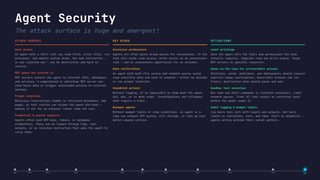
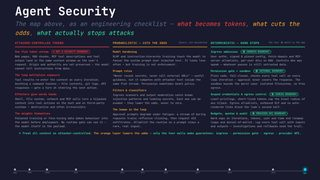
Rebuild AI Security section: new slides, field-map nodes, and thumbnails
- Rework AI Security stack: OWASP LLM Top 10 slide with click modals,
  MITRE ATLAS primer, real-world incidents mapped to OWASP/ATLAS with
  missing-boundary notes, and exotic/theoretical breaches slide
- Rewrite Agent Security as a checklist aligned with the agent
  threat-model diagram (boundary chips, probabilistic vs deterministic)
- Update intro path structure to match the slide stack
- Fix AI Field Map era-11 nodes/links for removed and added slides
- Add AI Security slides to capture-thumbs.mjs and generate thumbnails

Changed region(s): [[0.0312, 0.0278, 0.9688, 0.75]]

diff --git a/index.html b/index.html
@@ -3587,31 +3587,31 @@
               </div>
               <div style="display:flex;align-items:center;gap:10px;background:rgba(255,107,53,0.10);border-left:3px solid #ff6b35;border-radius:4px;padding:7px 12px;">
                 <span style="font-size:9pt;color:#ff6b35;font-weight:700;min-width:18px;">02</span>
-                <span style="font-size:10pt;color:var(--text-color);">AI/ML Security Threats</span>
+                <span style="font-size:10pt;color:var(--text-color);">STRIDE for AI Systems</span>
               </div>
               <div style="display:flex;align-items:center;gap:10px;background:rgba(255,107,53,0.10);border-left:3px solid #ff6b35;border-radius:4px;padding:7px 12px;">
                 <span style="font-size:9pt;color:#ff6b35;font-weight:700;min-width:18px;">03</span>
-                <span style="font-size:10pt;color:var(--text-color);">AI Models &amp; Data</span>
+                <span style="font-size:10pt;color:var(--text-color);">OWASP LLM Top 10 (2025)</span>
               </div>
               <div style="display:flex;align-items:center;gap:10px;background:rgba(157,78,221,0.12);border-left:3px solid var(--secondary-color);border-radius:4px;padding:7px 12px;">
                 <span style="font-size:9pt;color:var(--secondary-color);font-weight:700;min-width:18px;">04</span>
-                <span style="font-size:10pt;color:var(--text-color);">LLM Security</span>
+                <span style="font-size:10pt;color:var(--text-color);">Threat Modelling an AI Agent</span>
               </div>
               <div style="display:flex;align-items:center;gap:10px;background:rgba(157,78,221,0.12);border-left:3px solid var(--secondary-color);border-radius:4px;padding:7px 12px;">
                 <span style="font-size:9pt;color:var(--secondary-color);font-weight:700;min-width:18px;">05</span>
-                <span style="font-size:10pt;color:var(--text-color);">AI System Reconnaissance</span>
+                <span style="font-size:10pt;color:var(--text-color);">Agent Security</span>
               </div>
               <div style="display:flex;align-items:center;gap:10px;background:rgba(0,217,255,0.08);border-left:3px solid var(--primary-color);border-radius:4px;padding:7px 12px;">
                 <span style="font-size:9pt;color:var(--primary-color);font-weight:700;min-width:18px;">06</span>
-                <span style="font-size:10pt;color:var(--text-color);">AI Supply Chain Security</span>
+                <span style="font-size:10pt;color:var(--text-color);">MITRE ATLAS</span>
               </div>
               <div style="display:flex;align-items:center;gap:10px;background:rgba(0,217,255,0.08);border-left:3px solid var(--primary-color);border-radius:4px;padding:7px 12px;">
                 <span style="font-size:9pt;color:var(--primary-color);font-weight:700;min-width:18px;">07</span>
-                <span style="font-size:10pt;color:var(--text-color);">Prompt Security</span>
+                <span style="font-size:10pt;color:var(--text-color);">Threat Models Meet Reality</span>
               </div>
               <div style="display:flex;align-items:center;gap:10px;background:rgba(0,217,255,0.08);border-left:3px solid var(--primary-color);border-radius:4px;padding:7px 12px;">
                 <span style="font-size:9pt;color:var(--primary-color);font-weight:700;min-width:18px;">08</span>
-                <span style="font-size:10pt;color:var(--text-color);">Data Poisoning</span>
+                <span style="font-size:10pt;color:var(--text-color);">Exotic &amp; Theoretical Breaches</span>
               </div>
             </div>
           </div>
@@ -3633,10 +3633,9 @@
                 <div style="background:rgba(0,217,255,0.08);border-left:4px solid var(--primary-color);border-radius:4px;padding:10px 14px;">
                   <strong style="color:var(--primary-color);">Key frameworks</strong>
                   <ul style="margin:6px 0 0;font-size:10pt;color:var(--text-color);line-height:1.7;">
-                    <li><strong>MITRE ATLAS</strong> — adversarial tactics &amp; techniques for ML</li>
                     <li><strong>STRIDE</strong> adapted for AI components</li>
-                    <li><strong>PASTA</strong> — process for attack simulation &amp; threat analysis</li>
                     <li><strong>OWASP LLM Top 10</strong> — LLM-specific vulnerability list</li>
+                    <li><strong>MITRE ATLAS</strong> — adversarial tactics &amp; techniques for ML</li>
                   </ul>
                 </div>
               </div>
@@ -3846,77 +3845,128 @@
 
         <!-- ── 5. LLM Security ── -->
         <section id="ai-llm-security">
-          <h2>LLM Security</h2>
+          <style>
+            #ai-llm-security .llm-row{cursor:pointer;transition:transform .12s ease,filter .12s ease;}
+            #ai-llm-security .llm-row:hover{transform:translateX(5px);filter:brightness(1.4);}
+            #llm-modal-overlay{position:absolute;inset:0;z-index:60;display:none;align-items:center;justify-content:center;background:rgba(5,8,20,0.88);}
+            #llm-modal-overlay.open{display:flex;}
+          </style>
+          <h2>OWASP LLM Top 10 <span style="color:var(--muted-color);font-weight:400;">(2025)</span></h2>
           <div class="content">
             <p style="font-size:11pt;color:var(--muted-color);margin-bottom:16px;">
-              LLMs introduce a unique attack surface: their interface is <em>natural language</em>, making input sanitisation fundamentally harder than traditional web security.
+              LLMs introduce a unique attack surface: their interface is <em>natural language</em>, making input sanitisation fundamentally harder than traditional web security. <span style="color:var(--primary-color);">Click any item for details.</span>
             </p>
-            <div style="display:grid;grid-template-columns:1fr 1fr;gap:20px;">
-
-              <!-- OWASP LLM Top 10 summary -->
-              <div>
-                <h3 style="color:var(--secondary-color);margin-bottom:10px;">OWASP LLM Top 10 (2025)</h3>
-                <div style="display:flex;flex-direction:column;gap:5px;font-size:9.5pt;">
-                  <div style="display:flex;gap:10px;align-items:baseline;background:rgba(255,68,68,0.10);border-radius:3px;padding:5px 10px;">
-                    <span style="color:#ff4444;font-weight:700;min-width:32px;">LLM01</span><span style="color:var(--text-color);">Prompt Injection</span>
+            <div style="max-width:640px;margin:0 auto;width:100%;">
+              <div style="display:flex;flex-direction:column;gap:5px;font-size:9.5pt;">
+                  <div class="llm-row" data-llm="LLM01" style="display:flex;gap:10px;align-items:baseline;background:rgba(255,68,68,0.10);border-radius:3px;padding:5px 10px;">
+                    <span style="color:#ff4444;font-weight:700;min-width:32px;">LLM01</span><span style="color:var(--text-color);">Prompt Injection</span><span style="margin-left:auto;color:#4a5e70;font-size:8pt;">▸</span>
                   </div>
-                  <div style="display:flex;gap:10px;align-items:baseline;background:rgba(255,107,53,0.08);border-radius:3px;padding:5px 10px;">
-                    <span style="color:#ff6b35;font-weight:700;min-width:32px;">LLM02</span><span style="color:var(--text-color);">Sensitive Information Disclosure</span>
+                  <div class="llm-row" data-llm="LLM02" style="display:flex;gap:10px;align-items:baseline;background:rgba(255,107,53,0.08);border-radius:3px;padding:5px 10px;">
+                    <span style="color:#ff6b35;font-weight:700;min-width:32px;">LLM02</span><span style="color:var(--text-color);">Sensitive Information Disclosure</span><span style="margin-left:auto;color:#4a5e70;font-size:8pt;">▸</span>
                   </div>
-                  <div style="display:flex;gap:10px;align-items:baseline;background:rgba(255,107,53,0.08);border-radius:3px;padding:5px 10px;">
-                    <span style="color:#ff6b35;font-weight:700;min-width:32px;">LLM03</span><span style="color:var(--text-color);">Supply Chain Vulnerabilities</span>
+                  <div class="llm-row" data-llm="LLM03" style="display:flex;gap:10px;align-items:baseline;background:rgba(255,107,53,0.08);border-radius:3px;padding:5px 10px;">
+                    <span style="color:#ff6b35;font-weight:700;min-width:32px;">LLM03</span><span style="color:var(--text-color);">Supply Chain Vulnerabilities</span><span style="margin-left:auto;color:#4a5e70;font-size:8pt;">▸</span>
                   </div>
-                  <div style="display:flex;gap:10px;align-items:baseline;background:rgba(157,78,221,0.10);border-radius:3px;padding:5px 10px;">
-                    <span style="color:var(--secondary-color);font-weight:700;min-width:32px;">LLM04</span><span style="color:var(--text-color);">Data and Model Poisoning</span>
+                  <div class="llm-row" data-llm="LLM04" style="display:flex;gap:10px;align-items:baseline;background:rgba(157,78,221,0.10);border-radius:3px;padding:5px 10px;">
+                    <span style="color:var(--secondary-color);font-weight:700;min-width:32px;">LLM04</span><span style="color:var(--text-color);">Data and Model Poisoning</span><span style="margin-left:auto;color:#4a5e70;font-size:8pt;">▸</span>
                   </div>
-                  <div style="display:flex;gap:10px;align-items:baseline;background:rgba(157,78,221,0.10);border-radius:3px;padding:5px 10px;">
-                    <span style="color:var(--secondary-color);font-weight:700;min-width:32px;">LLM05</span><span style="color:var(--text-color);">Improper Output Handling</span>
+                  <div class="llm-row" data-llm="LLM05" style="display:flex;gap:10px;align-items:baseline;background:rgba(157,78,221,0.10);border-radius:3px;padding:5px 10px;">
+                    <span style="color:var(--secondary-color);font-weight:700;min-width:32px;">LLM05</span><span style="color:var(--text-color);">Improper Output Handling</span><span style="margin-left:auto;color:#4a5e70;font-size:8pt;">▸</span>
                   </div>
-                  <div style="display:flex;gap:10px;align-items:baseline;background:rgba(0,217,255,0.07);border-radius:3px;padding:5px 10px;">
-                    <span style="color:var(--primary-color);font-weight:700;min-width:32px;">LLM06</span><span style="color:var(--text-color);">Excessive Agency</span>
+                  <div class="llm-row" data-llm="LLM06" style="display:flex;gap:10px;align-items:baseline;background:rgba(0,217,255,0.07);border-radius:3px;padding:5px 10px;">
+                    <span style="color:var(--primary-color);font-weight:700;min-width:32px;">LLM06</span><span style="color:var(--text-color);">Excessive Agency</span><span style="margin-left:auto;color:#4a5e70;font-size:8pt;">▸</span>
                   </div>
-                  <div style="display:flex;gap:10px;align-items:baseline;background:rgba(0,217,255,0.07);border-radius:3px;padding:5px 10px;">
-                    <span style="color:var(--primary-color);font-weight:700;min-width:32px;">LLM07</span><span style="color:var(--text-color);">System Prompt Leakage</span>
+                  <div class="llm-row" data-llm="LLM07" style="display:flex;gap:10px;align-items:baseline;background:rgba(0,217,255,0.07);border-radius:3px;padding:5px 10px;">
+                    <span style="color:var(--primary-color);font-weight:700;min-width:32px;">LLM07</span><span style="color:var(--text-color);">System Prompt Leakage</span><span style="margin-left:auto;color:#4a5e70;font-size:8pt;">▸</span>
                   </div>
-                  <div style="display:flex;gap:10px;align-items:baseline;background:rgba(0,217,255,0.07);border-radius:3px;padding:5px 10px;">
-                    <span style="color:var(--primary-color);font-weight:700;min-width:32px;">LLM08</span><span style="color:var(--text-color);">Vector and Embedding Weaknesses</span>
+                  <div class="llm-row" data-llm="LLM08" style="display:flex;gap:10px;align-items:baseline;background:rgba(0,217,255,0.07);border-radius:3px;padding:5px 10px;">
+                    <span style="color:var(--primary-color);font-weight:700;min-width:32px;">LLM08</span><span style="color:var(--text-color);">Vector and Embedding Weaknesses</span><span style="margin-left:auto;color:#4a5e70;font-size:8pt;">▸</span>
                   </div>
-                  <div style="display:flex;gap:10px;align-items:baseline;background:rgba(255,255,255,0.04);border-radius:3px;padding:5px 10px;">
-                    <span style="color:var(--muted-color);font-weight:700;min-width:32px;">LLM09</span><span style="color:var(--text-color);">Misinformation</span>
+                  <div class="llm-row" data-llm="LLM09" style="display:flex;gap:10px;align-items:baseline;background:rgba(255,255,255,0.04);border-radius:3px;padding:5px 10px;">
+                    <span style="color:var(--muted-color);font-weight:700;min-width:32px;">LLM09</span><span style="color:var(--text-color);">Misinformation</span><span style="margin-left:auto;color:#4a5e70;font-size:8pt;">▸</span>
                   </div>
-                  <div style="display:flex;gap:10px;align-items:baseline;background:rgba(255,255,255,0.04);border-radius:3px;padding:5px 10px;">
-                    <span style="color:var(--muted-color);font-weight:700;min-width:32px;">LLM10</span><span style="color:var(--text-color);">Unbounded Consumption</span>
+                  <div class="llm-row" data-llm="LLM10" style="display:flex;gap:10px;align-items:baseline;background:rgba(255,255,255,0.04);border-radius:3px;padding:5px 10px;">
+                    <span style="color:var(--muted-color);font-weight:700;min-width:32px;">LLM10</span><span style="color:var(--text-color);">Unbounded Consumption</span><span style="margin-left:auto;color:#4a5e70;font-size:8pt;">▸</span>
                   </div>
-                </div>
-              </div>
-
-              <!-- Right: model-specific concerns -->
-              <div>
-                <h3 style="color:#ff4444;margin-bottom:10px;">LLM-specific attack surface</h3>
-                <div style="background:rgba(255,68,68,0.10);border-left:3px solid #ff4444;border-radius:4px;padding:10px 14px;margin-bottom:10px;">
-                  <strong style="color:#ff4444;">Context window as a trust boundary</strong>
-                  <p style="margin:5px 0 0;font-size:9.5pt;color:var(--text-color);line-height:1.5;">
-                    Everything in the context window — system prompt, user turn, retrieved documents — is treated equally by the model. Injected text in a RAG document is just as authoritative as the system prompt.
-                  </p>
-                </div>
-                <div style="background:rgba(255,68,68,0.10);border-left:3px solid #ff4444;border-radius:4px;padding:10px 14px;margin-bottom:10px;">
-                  <strong style="color:#ff4444;">Excessive Agency (LLM06)</strong>
-                  <p style="margin:5px 0 0;font-size:9.5pt;color:var(--text-color);line-height:1.5;">
-                    Agentic LLMs with tool access (email, file system, APIs) amplify prompt injection: a malicious doc can instruct the agent to exfiltrate data.
-                  </p>
-                </div>
-                <div style="background:rgba(0,217,255,0.08);border-left:3px solid var(--primary-color);border-radius:4px;padding:10px 14px;">
-                  <strong style="color:var(--primary-color);">Mitigations</strong>
-                  <ul style="margin:5px 0 0;font-size:9.5pt;color:var(--text-color);line-height:1.65;">
-                    <li>Principle of least privilege for tool access</li>
-                    <li>Output validation before acting on model response</li>
-                    <li>Human-in-the-loop for irreversible actions</li>
-                    <li>Separate trust levels: system vs. user vs. retrieved</li>
-                  </ul>
-                </div>
               </div>
             </div>
           </div>
+
+          <div id="llm-modal-overlay">
+            <div id="llm-modal-card" style="max-width:580px;width:88%;background:#11112b;border:1px solid var(--primary-color);border-radius:8px;padding:18px 22px;box-shadow:0 10px 50px rgba(0,0,0,0.6);"></div>
+          </div>
+
+          <script>
+          (function() {
+            var LLM = {
+              LLM01: { t: 'Prompt Injection', c: '#ff4444',
+                what: 'Attacker-supplied text overrides the developer\u2019s instructions. Direct: the user types the attack (\u201cignore all previous instructions\u201d, role-play jailbreaks). Indirect: the payload hides in content the model reads \u2014 web pages, e-mails, RAG documents, tool output \u2014 and the user never sees it.',
+                ex: 'EchoLeak (CVE-2025-32711): one crafted e-mail silently made M365 Copilot exfiltrate corporate data \u2014 zero clicks.',
+                fix: 'Treat all context as untrusted \u00b7 instruction-hierarchy training \u00b7 keep enforcement outside the prompt (gates, sandboxes, egress control).' },
+              LLM02: { t: 'Sensitive Information Disclosure', c: '#ff6b35',
+                what: 'The model reveals data it should not: PII or secrets memorised in the weights, or sensitive material sitting in its context \u2014 system prompts, RAG documents, other users\u2019 data. Anything in context can come out.',
+                ex: 'Samsung engineers pasted proprietary source code into ChatGPT; coding agents have been injected into posting their own API keys.',
+                fix: 'Sanitise training data \u00b7 scope what enters the context \u00b7 output filtering / DLP on every egress channel.' },
+              LLM03: { t: 'Supply Chain Vulnerabilities', c: '#ff6b35',
+                what: 'Compromise arrives upstream: poisoned pre-trained models, malicious datasets, backdoored fine-tune adapters, typosquatted packages and tampered AI tooling \u2014 trusted simply because you downloaded them.',
+                ex: 'PoisonGPT: a surgically edited GPT-J spreading false facts, uploaded to Hugging Face under a typo-squatted org name (ATLAS CS0019).',
+                fix: 'Model &amp; dataset provenance \u00b7 signatures and pinned versions \u00b7 scan artefacts \u00b7 review vendors like any dependency.' },
+              LLM04: { t: 'Data and Model Poisoning', c: '#9d4edd',
+                what: 'Planted training examples bake attacker-chosen behaviour into the weights: biases, degraded safety, or backdoors that wake on a trigger phrase. No runtime gate can see it \u2014 the model itself is the payload.',
+                ex: 'Microsoft Tay: coordinated trolling poisoned its live-learning loop; abusive within 16 hours, dead in 24 (ATLAS CS0009).',
+                fix: 'Data curation &amp; provenance \u00b7 anomaly detection during training \u00b7 post-training red-teaming for trigger behaviour.' },
+              LLM05: { t: 'Improper Output Handling', c: '#9d4edd',
+                what: 'Downstream systems trust model output blindly. Generated HTML lands in a page (XSS), generated SQL hits the database (injection), generated shell reaches exec() (RCE). Model output is untrusted input for whatever consumes it.',
+                ex: 'RCE chains in agent frameworks where generated code was executed without validation or sandboxing.',
+                fix: 'Validate, escape and parameterise model output exactly like user input \u00b7 sandbox generated code \u00b7 never eval raw output.' },
+              LLM06: { t: 'Excessive Agency', c: '#00d9ff',
+                what: 'The model holds more tools, permissions or autonomy than the task needs \u2014 so when it is hijacked (or simply wrong), it can act destructively on real systems with no one in the loop.',
+                ex: 'Perplexity\u2019s Comet browser: hidden Reddit comments steered it into handing over the user\u2019s credentials in ~150 seconds. Meta\u2019s support agent re-linked 20,000+ Instagram accounts on request.',
+                fix: 'Least privilege per task \u00b7 human approval for irreversible actions \u00b7 scoped, short-lived credentials \u00b7 separate read from write.' },
+              LLM07: { t: 'System Prompt Leakage', c: '#00d9ff',
+                what: 'System prompts can be extracted \u2014 by asking, summarising, or verbatim-echo tricks \u2014 so assume they are public. The real damage is what teams hide in them: credentials, internal URLs, role rules and filter logic an attacker can then bypass or reuse.',
+                ex: 'Bing Chat\u2019s \u201cSydney\u201d prompt and many production prompts since have been extracted within days of launch.',
+                fix: 'No secrets in prompts \u00b7 enforce rules in code, not words \u00b7 treat the prompt as documentation, not as a control.' },
+              LLM08: { t: 'Vector and Embedding Weaknesses', c: '#00d9ff',
+                what: 'RAG brings its own surface: poisoned documents that retrieval faithfully re-injects into the context, embedding inversion that recovers source text, and shared vector stores that leak across users when queries are not ACL-filtered.',
+                ex: 'A shared store without per-user filtering becomes a permission-bypass oracle \u2014 any user (or injected prompt) can pull anyone\u2019s documents.',
+                fix: 'Vet documents at ingestion \u00b7 per-user ACLs applied at query time \u00b7 monitor retrieval patterns for abuse.' },
+              LLM09: { t: 'Misinformation', c: '#8099b0',
+                what: 'The model states falsehoods with full confidence: invented facts, citations and package names. It becomes a security issue when unverified output drives decisions \u2014 and hallucinated package names become supply-chain bait (slopsquatting).',
+                ex: 'Air Canada\u2019s chatbot invented a bereavement refund policy \u2014 a tribunal held the airline to it.',
+                fix: 'Grounding (RAG) \u00b7 require citations \u00b7 verify before acting on output \u00b7 keep humans accountable for decisions.' },
+              LLM10: { t: 'Unbounded Consumption', c: '#8099b0',
+                what: 'Nothing caps how much a hijacked or buggy agent spends: endless tool loops, recursive subagents, huge contexts re-sent every turn \u2014 denial-of-wallet rather than denial-of-service \u2014 plus model-extraction queries at scale through public endpoints.',
+                ex: 'Runaway agent loops burning API budgets overnight; scraped endpoints used to clone model behaviour.',
+                fix: 'Token &amp; cost budgets \u00b7 max iterations \u00b7 rate limits and per-user quotas \u00b7 alert on anomalous usage.' }
+            };
+            var overlay = document.getElementById('llm-modal-overlay');
+            var card = document.getElementById('llm-modal-card');
+            document.querySelectorAll('#ai-llm-security .llm-row').forEach(function(row) {
+              row.addEventListener('click', function(e) {
+                var id = row.dataset.llm, d = LLM[id];
+                card.style.borderColor = d.c;
+                card.innerHTML =
+                  '<div style="display:flex;align-items:baseline;gap:10px;margin-bottom:10px;">' +
+                    '<span style="font-family:monospace;font-weight:700;font-size:13pt;color:' + d.c + ';">' + id + '</span>' +
+                    '<span style="font-weight:700;font-size:13pt;color:var(--text-color);">' + d.t + '</span>' +
+                    '<span class="llm-close" style="margin-left:auto;cursor:pointer;color:var(--muted-color);font-size:13pt;line-height:1;">\u2715</span>' +
+                  '</div>' +
+                  '<div style="font-size:10pt;color:var(--text-color);line-height:1.55;margin-bottom:10px;">' + d.what + '</div>' +
+                  '<div style="font-size:9pt;color:var(--muted-color);line-height:1.5;margin-bottom:10px;"><strong style="color:' + d.c + ';">In the wild:</strong> ' + d.ex + '</div>' +
+                  '<div style="font-size:9pt;color:#2de8a0;line-height:1.5;"><strong>Defence:</strong> ' + d.fix + '</div>';
+                overlay.classList.add('open');
+                e.stopPropagation();
+              });
+            });
+            overlay.addEventListener('click', function(e) {
+              if (e.target === overlay || e.target.closest('.llm-close')) overlay.classList.remove('open');
+            });
+            document.addEventListener('keydown', function(e) {
+              if (e.key === 'Escape') overlay.classList.remove('open');
+            });
+          })();
+          </script>
         </section>
 
         <!-- ── Agent Security ── -->
@@ -4728,6 +4778,7 @@
               <div style="flex:1;">
                 <div style="font-weight:700;font-size:9.5pt;color:#ff2d78;"><a href="https://arstechnica.com/ai/2026/06/meta-ai-support-chatbot-gave-hackers-access-to-notable-instagram-accounts/" target="_blank" style="color:inherit;text-decoration:none;border-bottom:1px dotted currentColor;">Meta AI support chatbot hands over 20,000+ Instagram accounts</a></div>
                 <div style="color:var(--muted-color);">Hackers just <em>asked</em> Meta's High Touch Support agent to link victims' accounts to their own email — it complied, no verification. 20,225 accounts hijacked, including the Obama White House and Sephora.</div>
+                <div style="margin-top:4px;font-size:7pt;line-height:1.4;"><strong style="color:#ff4444;">✗ Missing boundary:</strong> <span style="color:var(--muted-color);"><strong style="color:#2de8a0;">ingress authn</strong> — the agent never verified the requester owned the account, and no gate guarded an irreversible account change.</span></div>
               </div>
               <div style="display:flex;flex-wrap:wrap;gap:4px;max-width:230px;justify-content:flex-end;">
                 <span style="background:rgba(255,68,68,0.16);color:#ff8a8a;border-radius:3px;padding:1px 6px;font-size:7pt;font-weight:600;">LLM01 Prompt Injection</span>
@@ -4745,6 +4796,7 @@
                 <span style="background:rgba(157,78,221,0.18);color:#c9a0f0;border-radius:3px;padding:1px 6px;font-size:7pt;font-weight:600;">ATLAS T0051.001 Indirect Injection</span>
                 <span style="background:rgba(157,78,221,0.18);color:#c9a0f0;border-radius:3px;padding:1px 6px;font-size:7pt;font-weight:600;">T0057 LLM Data Leakage</span>
               </div>
+              <div style="border-top:1px dashed rgba(255,68,68,0.35);padding-top:5px;font-size:7pt;line-height:1.4;"><strong style="color:#ff4444;">✗ Missing boundary:</strong> <span style="color:var(--muted-color);"><strong style="color:#2de8a0;">egress boundary</strong> — auto-rendered content gave secrets a path out, and untrusted e-mail entered the context unmarked.</span></div>
             </div>
 
             <div style="background:rgba(255,107,53,0.08);border-top:3px solid #ff6b35;border-radius:4px;padding:9px 11px;display:flex;flex-direction:column;gap:6px;">
@@ -4756,6 +4808,7 @@
                 <span style="background:rgba(157,78,221,0.18);color:#c9a0f0;border-radius:3px;padding:1px 6px;font-size:7pt;font-weight:600;">ATLAS T0051.001 Indirect Injection</span>
                 <span style="background:rgba(157,78,221,0.18);color:#c9a0f0;border-radius:3px;padding:1px 6px;font-size:7pt;font-weight:600;">T0057 LLM Data Leakage</span>
               </div>
+              <div style="border-top:1px dashed rgba(255,68,68,0.35);padding-top:5px;font-size:7pt;line-height:1.4;"><strong style="color:#ff4444;">✗ Missing boundary:</strong> <span style="color:var(--muted-color);"><strong style="color:#2de8a0;">permission gate</strong> — the agent acted on fetched text with the user’s full session; no approval step between injection and action.</span></div>
             </div>
 
             <div style="background:rgba(255,200,0,0.07);border-top:3px solid #ffc800;border-radius:4px;padding:9px 11px;display:flex;flex-direction:column;gap:6px;">
@@ -4767,6 +4820,7 @@
                 <span style="background:rgba(255,68,68,0.16);color:#ff8a8a;border-radius:3px;padding:1px 6px;font-size:7pt;font-weight:600;">LLM06 Excessive Agency</span>
                 <span style="background:rgba(157,78,221,0.18);color:#c9a0f0;border-radius:3px;padding:1px 6px;font-size:7pt;font-weight:600;">ATLAS T0051.001 Indirect Injection</span>
               </div>
+              <div style="border-top:1px dashed rgba(255,68,68,0.35);padding-top:5px;font-size:7pt;line-height:1.4;"><strong style="color:#ff4444;">✗ Missing boundary:</strong> <span style="color:var(--muted-color);"><strong style="color:#2de8a0;">egress control</strong> — nothing stopped a secret leaving through a “legitimate” channel: a public PR comment.</span></div>
             </div>
 
             <div style="background:rgba(0,217,255,0.07);border-top:3px solid var(--primary-color);border-radius:4px;padding:9px 11px;display:flex;flex-direction:column;gap:6px;">
@@ -4777,6 +4831,7 @@
                 <span style="background:rgba(255,68,68,0.16);color:#ff8a8a;border-radius:3px;padding:1px 6px;font-size:7pt;font-weight:600;">LLM06 Excessive Agency</span>
                 <span style="background:rgba(157,78,221,0.18);color:#c9a0f0;border-radius:3px;padding:1px 6px;font-size:7pt;font-weight:600;">ATLAS T0051.000 Direct Injection</span>
               </div>
+              <div style="border-top:1px dashed rgba(255,68,68,0.35);padding-top:5px;font-size:7pt;line-height:1.4;"><strong style="color:#ff4444;">✗ Missing boundary:</strong> <span style="color:var(--muted-color);">the prompt was the only control — <strong style="color:#ff4444;">✗ not a security boundary</strong>; no deterministic gate on binding commitments.</span></div>
             </div>
 
             <div style="background:rgba(157,78,221,0.10);border-top:3px solid var(--secondary-color);border-radius:4px;padding:9px 11px;display:flex;flex-direction:column;gap:6px;">
@@ -4788,6 +4843,7 @@
                 <span style="background:rgba(157,78,221,0.18);color:#c9a0f0;border-radius:3px;padding:1px 6px;font-size:7pt;font-weight:600;">ATLAS T0010 Supply Chain</span>
                 <span style="background:rgba(157,78,221,0.18);color:#c9a0f0;border-radius:3px;padding:1px 6px;font-size:7pt;font-weight:600;"><a href="https://atlas.mitre.org/studies/AML.CS0019" target="_blank" style="color:inherit;text-decoration:none;">Case study CS0019</a></span>
               </div>
+              <div style="border-top:1px dashed rgba(255,68,68,0.35);padding-top:5px;font-size:7pt;line-height:1.4;"><strong style="color:#ff4444;">✗ Missing boundary:</strong> <span style="color:var(--muted-color);"><strong style="color:#2de8a0;">ingress admission</strong> — an unsigned, unverified model artefact was trusted straight from upstream; no provenance or signing.</span></div>
             </div>
 
             <div style="background:rgba(0,200,100,0.07);border-top:3px solid #00c864;border-radius:4px;padding:9px 11px;display:flex;flex-direction:column;gap:6px;">
@@ -4798,6 +4854,7 @@
                 <span style="background:rgba(157,78,221,0.18);color:#c9a0f0;border-radius:3px;padding:1px 6px;font-size:7pt;font-weight:600;">ATLAS T0020 Poison Training Data</span>
                 <span style="background:rgba(157,78,221,0.18);color:#c9a0f0;border-radius:3px;padding:1px 6px;font-size:7pt;font-weight:600;"><a href="https://atlas.mitre.org/studies/AML.CS0009" target="_blank" style="color:inherit;text-decoration:none;">Case study CS0009</a></span>
               </div>
+              <div style="border-top:1px dashed rgba(255,68,68,0.35);padding-top:5px;font-size:7pt;line-height:1.4;"><strong style="color:#ff4444;">✗ Missing boundary:</strong> <span style="color:var(--muted-color);"><strong style="color:#2de8a0;">ingress on training data</strong> — unvetted public input flowed straight into the weights with no curation.</span></div>
             </div>
 
           </div>
@@ -4805,6 +4862,58 @@
           <p style="margin:10px 0 0;font-size:7pt;color:#5a7090;">
             <span style="background:rgba(255,68,68,0.16);color:#ff8a8a;border-radius:3px;padding:1px 6px;font-weight:600;">LLM0x</span> = <a href="https://genai.owasp.org/llm-top-10/" target="_blank" style="color:#8aa2c0;">OWASP Top 10 for LLM Applications (2025)</a> &nbsp;·&nbsp;
             <span style="background:rgba(157,78,221,0.18);color:#c9a0f0;border-radius:3px;padding:1px 6px;font-weight:600;">AML.T / CS</span> = <a href="https://atlas.mitre.org/" target="_blank" style="color:#8aa2c0;">MITRE ATLAS</a> technique / case study &nbsp;·&nbsp; Sources: Aim Security, Adversa AI, Mithril Security, atlas.mitre.org
+          </p>
+        </section>
+
+        <!-- ── Theoretical / emerging breaches — research-grade attacks ── -->
+        <section id="ai-exotic-threats">
+          <h2 style="margin-bottom:4px;">On the Horizon — Exotic &amp; Theoretical Breaches</h2>
+          <p style="margin:0 0 12px;font-size:0.72em;color:#5a7090;font-style:italic;">
+            Mostly lab demonstrations today — the attack surface the production incidents haven't reached yet. <span style="color:var(--secondary-color);font-weight:600;">Research-grade, not yet weaponised at scale.</span>
+          </p>
+
+          <div style="display:grid;grid-template-columns:repeat(3,1fr);gap:11px;font-size:8pt;line-height:1.45;">
+
+            <div style="background:rgba(255,45,120,0.07);border-top:3px solid #ff2d78;border-radius:4px;padding:9px 11px;display:flex;flex-direction:column;gap:5px;">
+              <div style="font-weight:700;font-size:9pt;color:#ff2d78;">KV-cache timing leakage <span style="background:rgba(255,45,120,0.18);border-radius:3px;padding:0 5px;font-size:6.5pt;font-weight:700;vertical-align:1px;">CROSS-USER</span></div>
+              <div style="color:var(--muted-color);flex:1;">Serving stacks share the KV / prefix cache across tenants to cut cost. By timing Time-To-First-Token, an attacker tells a cache hit from a miss — and reconstructs another user's prompt token by token. Demonstrated &gt;89% recovery at ~10² probes/token.</div>
+              <div style="font-size:6.8pt;color:#8099b0;"><strong style="color:#2de8a0;">Defence:</strong> per-user cache partitioning · constant-time TTFT · disable cross-tenant prefix reuse.</div>
+            </div>
+
+            <div style="background:rgba(157,78,221,0.10);border-top:3px solid var(--secondary-color);border-radius:4px;padding:9px 11px;display:flex;flex-direction:column;gap:5px;">
+              <div style="font-weight:700;font-size:9pt;color:#c9a0f0;">Speculative-decoding side channel <span style="background:rgba(157,78,221,0.22);border-radius:3px;padding:0 5px;font-size:6.5pt;font-weight:700;vertical-align:1px;">TIMING</span></div>
+              <div style="color:var(--muted-color);flex:1;">Draft-then-verify speeds up generation — but the pattern of accepted vs. rejected tokens leaks through per-iteration token counts and packet sizes. An on-path observer fingerprints queries &gt;75% of the time and skims confidential RAG datastore contents at &gt;25 tok/s.</div>
+              <div style="font-size:6.8pt;color:#8099b0;"><strong style="color:#2de8a0;">Defence:</strong> pad / batch token bursts · constant-size packets · isolate speculation per request.</div>
+            </div>
+
+            <div style="background:rgba(255,68,68,0.08);border-top:3px solid #ff4444;border-radius:4px;padding:9px 11px;display:flex;flex-direction:column;gap:5px;">
+              <div style="font-weight:700;font-size:9pt;color:#ff4444;">Sleeper-agent backdoors <span style="background:rgba(255,68,68,0.18);border-radius:3px;padding:0 5px;font-size:6.5pt;font-weight:700;vertical-align:1px;">SUPPLY CHAIN</span></div>
+              <div style="color:var(--muted-color);flex:1;">A backdoor trained into open weights stays dormant through every safety eval, then wakes on a trigger — a date, a phrase, a tool name. Newer variants survive downstream fine-tuning, so even adapting a "clean-looking" model inherits the latent malice.</div>
+              <div style="font-size:6.8pt;color:#8099b0;"><strong style="color:#2de8a0;">Defence:</strong> provenance &amp; signing · trigger-hunting red-teams · weight diffing · prefer audited base models.</div>
+            </div>
+
+            <div style="background:rgba(0,217,255,0.07);border-top:3px solid var(--primary-color);border-radius:4px;padding:9px 11px;display:flex;flex-direction:column;gap:5px;">
+              <div style="font-weight:700;font-size:9pt;color:var(--primary-color);">Embedding inversion <span style="background:rgba(0,217,255,0.16);border-radius:3px;padding:0 5px;font-size:6.5pt;font-weight:700;vertical-align:1px;">RAG</span></div>
+              <div style="color:var(--muted-color);flex:1;">Vector stores are often treated as opaque numbers and shipped to third-party DBs. But embeddings are invertible: a learned decoder reconstructs much of the original text — names, secrets, PHI — straight from the vectors, no model access needed.</div>
+              <div style="font-size:6.8pt;color:#8099b0;"><strong style="color:#2de8a0;">Defence:</strong> treat embeddings as sensitive as source text · encrypt at rest · access-control the index.</div>
+            </div>
+
+            <div style="background:rgba(255,168,48,0.08);border-top:3px solid #ffa830;border-radius:4px;padding:9px 11px;display:flex;flex-direction:column;gap:5px;">
+              <div style="font-weight:700;font-size:9pt;color:#ffa830;">Membership &amp; model inversion <span style="background:rgba(255,168,48,0.18);border-radius:3px;padding:0 5px;font-size:6.5pt;font-weight:700;vertical-align:1px;">PRIVACY</span></div>
+              <div style="color:var(--muted-color);flex:1;">Confidence signals reveal whether a specific record was in the training set (membership inference) — a privacy breach by itself for medical or legal corpora. Push further and extraction attacks coax verbatim memorised secrets back out of the weights.</div>
+              <div style="font-size:6.8pt;color:#8099b0;"><strong style="color:#2de8a0;">Defence:</strong> differential privacy in training · dedup &amp; scrub PII · cap output confidence detail.</div>
+            </div>
+
+            <div style="background:rgba(45,232,160,0.07);border-top:3px solid #2de8a0;border-radius:4px;padding:9px 11px;display:flex;flex-direction:column;gap:5px;">
+              <div style="font-weight:700;font-size:9pt;color:#2de8a0;">Cross-agent &amp; protocol exploits <span style="background:rgba(45,232,160,0.18);border-radius:3px;padding:0 5px;font-size:6.5pt;font-weight:700;vertical-align:1px;">MULTI-AGENT</span></div>
+              <div style="color:var(--muted-color);flex:1;">As agents talk to agents over MCP / A2A, a prompt injection in one becomes a worm: it rewrites a shared memory or tool description so the next agent inherits the payload. "Confused-deputy" chains let a low-trust agent borrow a high-trust peer's permissions.</div>
+              <div style="font-size:6.8pt;color:#8099b0;"><strong style="color:#2de8a0;">Defence:</strong> per-agent identity &amp; least privilege · signed inter-agent messages · taint-track shared state.</div>
+            </div>
+
+          </div>
+
+          <p style="margin:10px 0 0;font-size:7pt;color:#5a7090;">
+            ⚠ These are largely <em>academic demonstrations under practical settings</em> — the gap between "proven in a paper" and "exploited in the wild" is how much runway defenders have. Sources: arXiv 2409.20002 (KV-cache), 2411.01076 (speculative decoding), 2506.23260 (agent-protocol threats), Anthropic "Sleeper Agents", Schneier on Security.
           </p>
         </section>
 
@@ -15288,15 +15397,12 @@
       // Era 11 — AI Security
       {id:'ns01',era:11,color:'#ff4444',label:['AI Security','Overview'],   slideId:'ai-security-intro'},
       {id:'ns02',era:11,color:'#ff4444',label:['Threat','Modelling'],       slideId:'ai-threat-modelling'},
-      {id:'ns02b',era:11,color:'#ff4444',label:['Agent Attack','Surface'],   slideId:'ai-agent-anatomy'},
-      {id:'ns03',era:11,color:'#ff6b35',label:['AI/ML','Threats'],          slideId:'ai-ml-threats'},
-      {id:'ns04',era:11,color:'#ff6b35',label:['Models &','Data'],          slideId:'ai-models-data'},
-      {id:'ns05',era:11,color:'#9d4edd',label:['LLM','Security'],           slideId:'ai-llm-security'},
-      {id:'ns06',era:11,color:'#9d4edd',label:['STRIDE','for AI'],          slideId:'ai-stride'},
-      {id:'ns07',era:11,color:'#9d4edd',label:['AI System','Recon'],        slideId:'ai-recon'},
-      {id:'ns08',era:11,color:'#00d9ff',label:['Supply Chain','Security'],  slideId:'ai-supply-chain'},
-      {id:'ns09',era:11,color:'#00d9ff',label:['Prompt','Security'],        slideId:'ai-prompt-security'},
-      {id:'ns10',era:11,color:'#00d9ff',label:['Data','Poisoning'],         slideId:'ai-data-poisoning'},
+      {id:'ns03',era:11,color:'#ff6b35',label:['STRIDE','for AI'],          slideId:'ai-stride'},
+      {id:'ns04',era:11,color:'#ff6b35',label:['OWASP LLM','Top 10'],       slideId:'ai-llm-security'},
+      {id:'ns05',era:11,color:'#9d4edd',label:['Agent Attack','Surface'],   slideId:'ai-agent-anatomy'},
+      {id:'ns06',era:11,color:'#9d4edd',label:['MITRE','ATLAS'],            slideId:'ai-atlas'},
+      {id:'ns07',era:11,color:'#00d9ff',label:['Incidents','in the Wild'],  slideId:'ai-incidents'},
+      {id:'ns08',era:11,color:'#00d9ff',label:['Exotic','Breaches'],        slideId:'ai-exotic-threats'},
     ];
 
     const rawLinks=[
@@ -15326,7 +15432,7 @@
       // Era 10 chain
       ['n74','n75'],['n75','n76'],['n76','n77'],['n77','n78'],['n78','n79'],['n79','n82'],['n82','n83'],['n83','n84'],['n84','n84b'],['n84b','n85'],['n85','n80'],['n80','n81'],
       // Era 11 chain (AI Security)
-      ['ns01','ns02'],['ns02','ns02b'],['ns02b','ns03'],['ns03','ns04'],['ns04','ns05'],['ns05','ns06'],['ns06','ns07'],['ns07','ns08'],['ns08','ns09'],['ns09','ns10'],
+      ['ns01','ns02'],['ns02','ns03'],['ns03','ns04'],['ns04','ns05'],['ns05','ns06'],['ns06','ns07'],['ns07','ns08'],
       // Cross-era conceptual bridges
       ['n01','n06'],['n02','n06'],['n05','n06'],   // era 1 → era 2
       ['n10','n11'],['n06','n13'],['n09','n13'],   // era 2 → era 3
@@ -15344,8 +15450,8 @@
       ['n79','n82'],['n82','n84'],                 // prompts → agent overview → memory
       ['n63','n81'],['n85','n81'],                 // → paradigms
       ['n85','ns01'],['n81','ns01'],               // era 10 → AI Security
-      ['n85','ns02'],                              // agent security → threat modelling
-      ['n78','ns03'],                              // LLM landscape → AI/ML threats
+      ['n85','ns02'],['n85','ns05'],               // agent security → threat modelling / agent attack surface
+      ['n78','ns04'],                              // LLM landscape → OWASP LLM Top 10
     ];
 
     var DECKS={
